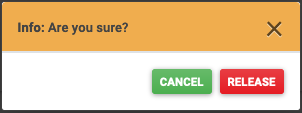
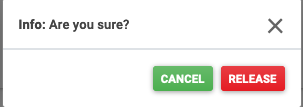
changed modals updated readme

diff --git a/templates/cronjobs.html b/templates/cronjobs.html
@@ -104,9 +104,15 @@
       <div class="modal-content">
       
         <!-- Modal Header -->
-        <div class="modal-header" style="background-color: #5cb85c;height: 50px;">
-          <h6 class="modal-title"><p><strong>Info:</strong> Are you sure?</p></h6>
+        <div class="modal-header" style="height: 50px;">
+          <h6 class="modal-title"><p>Select import</p></h6>
           <button type="button" class="close" data-dismiss="modal">&times;</button>
+        </div>
+
+                <!-- Modal Body-->
+        <div class="modal-body">
+            <label for="cronjob-importlocation"></label>
+            <input type="file" id="cronjob-importlocation"></input>
         </div>
         
         <!-- Modal footer -->
@@ -128,9 +134,15 @@
       <div class="modal-content">
       
         <!-- Modal Header -->
-        <div class="modal-header" style="background-color: #5cb85c;height: 50px;">
-          <h6 class="modal-title"><p><strong>Info:</strong> Are you sure?</p></h6>
+        <div class="modal-header" style="height: 50px;">
+          <h6 class="modal-title"><p>Select export location</p></h6>
           <button type="button" class="close" data-dismiss="modal">&times;</button>
+        </div>
+
+        <!-- Modal Body-->
+        <div class="modal-body">
+            <label for="cronjob-exportlocation"></label>
+            <input type="file" id="cronjob-exportlocation"></input>
         </div>
         
         <!-- Modal footer -->

diff --git a/templates/stats.html b/templates/stats.html
@@ -63,7 +63,7 @@
       <div class="modal-content">
       
         <!-- Modal Header -->
-        <div class="modal-header" style="background-color: #f0ad4e;height: 50px;">
+        <div class="modal-header" style="height: 50px;">
           <h6 class="modal-title"><p><strong>Info:</strong> Are you sure?</p></h6>
           <button type="button" class="close" data-dismiss="modal">&times;</button>
         </div>
@@ -71,7 +71,7 @@
         <!-- Modal footer -->
         <div class="modal-footer">
           <button type="button" class="btn btn-success btn-sm" data-dismiss="modal" style="color: white;"><strong>Cancel</strong></button>
-          <button type="submit" class="btn btn-danger btn-sm"><strong>Release</strong></button>
+          <button type="submit" class="btn btn-warning btn-sm"><strong>Release</strong></button>
         </div>
         
       </div>
@@ -86,7 +86,7 @@
       <div class="modal-content">
       
         <!-- Modal Header -->
-        <div class="modal-header" style="background-color: #5cb85c;height: 50px;">
+        <div class="modal-header" style="height: 50px;">
           <h6 class="modal-title"><p><strong>Info:</strong> Are you sure?</p></h6>
           <button type="button" class="close" data-dismiss="modal">&times;</button>
         </div>
